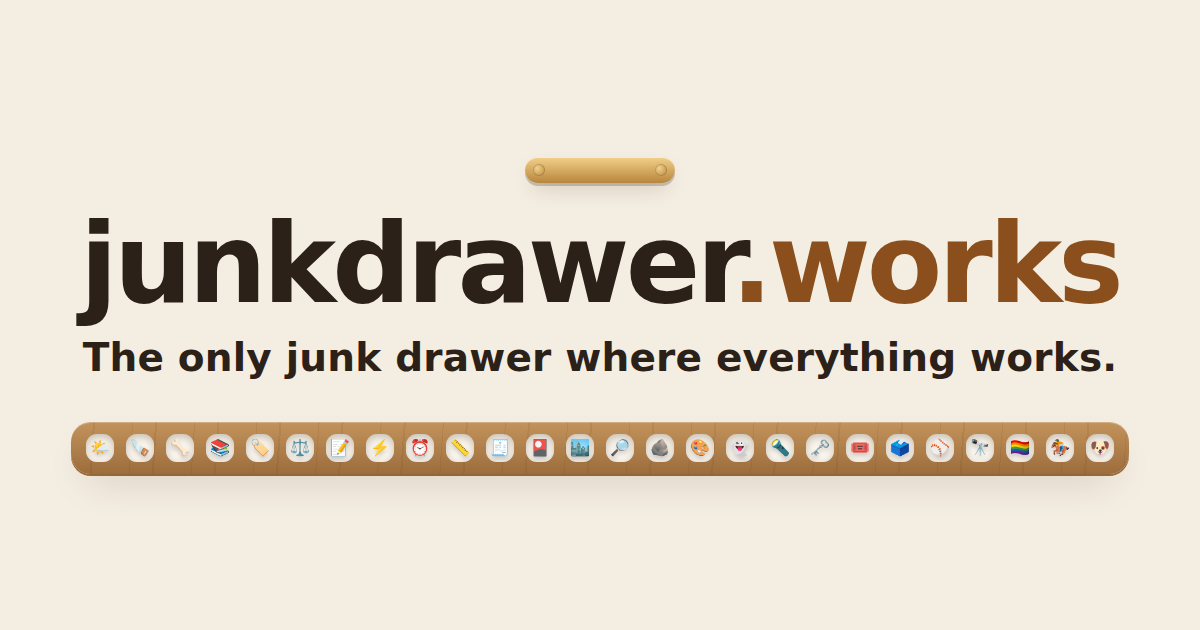
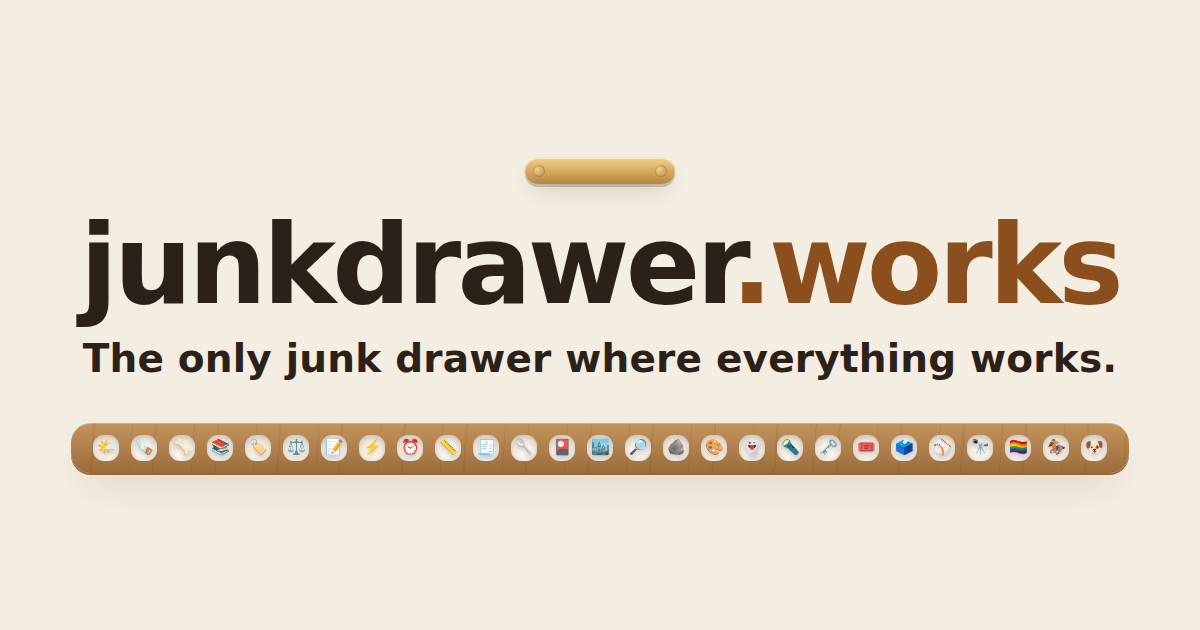
Add From Scratch to the drawer
From Scratch saves recipes to Google Drive, so the privacy page lists what
it keeps there and that it reads the account's email address.

Claude-Session: https://claude.ai/code/session_01KYhoXmFT42XjZdPdNKhnVQ

diff --git a/privacy.html b/privacy.html
@@ -49,11 +49,12 @@
     <li><b>Terraville</b> keeps a <code>Terraville</code> folder with one text file per city for each device you play on. More in <a href="/terraville/privacy.html">Terraville's privacy page</a>.</li>
     <li><b>Lotería</b> (El Cantor, My tablas and Make tablas) keeps a <code>Lotería</code> folder with <code>Lotería tablas.json</code>. It holds the people and tablas in My tablas, the tablas in Make tablas, and El Cantor's winners and the juego it last printed. Called cards, voices and other settings stay on each device.</li>
     <li><b>Every So Often</b> keeps an <code>Every So Often</code> folder with <code>Every So Often.json</code>. It holds your list: each thing’s name, area, how often it’s due and what to remember, the dates you did it with any notes, things you deleted, and whether your seasons follow the northern or southern hemisphere. How the list is grouped, sample data and whether a device saves to Drive stay on each device.</li>
+    <li><b>From Scratch</b> keeps a <code>From Scratch</code> folder with <code>From Scratch recipes.json</code>. It holds your recipes: each one’s name, whose it is, what it serves or makes, its times, ingredients, steps, notes, tags, where it came from and any note to check it against the card, with markers for recipes you removed. Photos of recipe cards, settings and timers stay on each device.</li>
   </ul>
 
   <h2>What they do with your Google account</h2>
   <p>Connecting Google Drive asks Google for one permission, <code>drive.file</code>: “see, edit, create, and delete only the specific Google Drive files you use with this app”. The projects share one Google sign-in, called junkdrawer.works, so “this app” means these projects together. They can reach only the folders and files they made themselves, and they can't see, open or list anything else in your Drive.</p>
-  <p>They use this access only to read their own file, merge it with the copy on your device, and write it back. Lotería and Every So Often also read your Google account's name and email address, to show which account they save to and to skip Google's account chooser the next time; that stays in your browser.</p>
+  <p>They use this access only to read their own file, merge it with the copy on your device, and write it back. Lotería and Every So Often also read your Google account's name and email address, and From Scratch its email address, to show which account they save to and to skip Google's account chooser the next time; that stays in your browser.</p>
   <p>The sign-in Google gives your browser lasts about an hour and is kept in your browser, so a reload doesn't sign you out. Projects that share it can use it during that hour without asking again. It is never sent anywhere except to Google.</p>
   <p>The use and transfer of information received from Google APIs by junkdrawer.works projects adheres to the <a href="https://developers.google.com/terms/api-services-user-data-policy">Google API Services User Data Policy</a>, including the Limited Use requirements. Your Drive data is used only to show you your own things. It isn't transferred to anyone, used for advertising, or read by any person.</p>
 

diff --git a/index.html b/index.html
@@ -270,6 +270,13 @@
         <p>Keep a tab for a trip, a shared house or a dinner out, split however it was shared, down to who had what on the bill. See the fewest payments that settle it, and send the tab as a link so everyone can add to it.</p>
         <span class="go" aria-hidden="true">Open →</span>
       </a>
+      <a class="slot" href="/from-scratch/">
+        <span class="obj" aria-hidden="true">🥄</span>
+        <span class="label">New</span>
+        <h3>From Scratch</h3>
+        <p>The family recipe box, for the recipes on stained index cards. Photograph a card and Claude types it up, then scale it, switch cups to grams and cook from it with the screen kept on. It syncs through your own Google Drive.</p>
+        <span class="go" aria-hidden="true">Open →</span>
+      </a>
       </div>
     </section>
 
